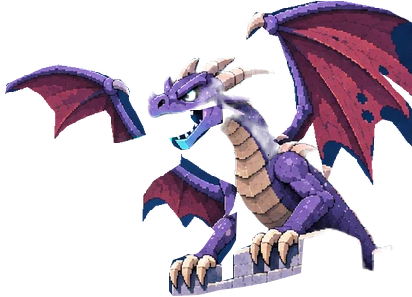
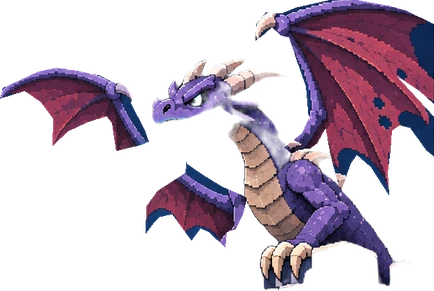
Restore the pre-session Showdown build

diff --git a/src/ui/showdown-3d/story-actors.js b/src/ui/showdown-3d/story-actors.js
@@ -1,6 +1,5 @@
 import * as T from "three";
 import { typeOf } from "../../game/showdown/cards.js";
-import { PAINTED_SPRITE_ALPHA } from "./graphics/pixel-renderer.js";
 
 const source = typeof __CVW_DUEL_POSES__ === "undefined" ? "" : __CVW_DUEL_POSES__;
 const billy = typeof __CVW_BILLY_POSES__ === "undefined" ? "" : __CVW_BILLY_POSES__;
@@ -12,10 +11,10 @@ const illustrated = {
   "cowboy-outrider": { height: 2.39, width: 3.44, hips: 0.49, muzzle: [0.78, 0.62] },
   "cowboy-ranger": { height: 2.55, muzzle: [0.91, 0.76] },
   "cowboy-dynamiter": { height: 2.38, muzzle: [0.86, 0.88] },
-  "cowboy-gatling-crew": { height: 2.69, width: 3.10, hips: 0.41, muzzle: [0.95, 0.52], exactPaint: true },
+  "cowboy-gatling-crew": { height: 2.19, width: 3.25, hips: 0.41, muzzle: [0.94, 0.56] },
   "cowboy-captured-wraith": { height: 2.66, hips: 0.53 },
   "cowboy-captured-dragon": { height: 2.93, width: 3.53, hips: 0.39, mouth: [0.91, 0.74] },
-  "wizard-dragon": { height: 2.84, width: 3.76, hips: 0.42, mouth: [0.456, 0.60], exactPaint: true },
+  "wizard-dragon": { height: 2.98, width: 3.60, hips: 0.42, mouth: [0.38, 0.57] },
   "wizard-wizard": { height: 2.79, "staff-tip": [0.12, 0.93] },
   "wizard-lantern-wraith": { height: 2.60, width: 2.83, hips: 0.53 },
   "wizard-raven-familiar": { height: 1.58, width: 2.23, hips: 0.46 },
@@ -68,7 +67,7 @@ function readPose(image, col, row, split, rows, mirror) {
   map.minFilter = T.NearestFilter;
   map.magFilter = T.NearestFilter;
   map.generateMipmaps = false;
-  return { map, aspect: imagePose.width / imagePose.height, height: imagePose.height };
+  return { map, aspect: imagePose.width / imagePose.height };
 }
 
 export function loadStoryActors() {
@@ -100,9 +99,8 @@ export function loadStoryActors() {
     }
     const map = new T.Texture(image);
     map.colorSpace = T.SRGBColorSpace;
-    map.minFilter = T.NearestFilter;
+    map.minFilter = T.LinearMipmapLinearFilter;
     map.magFilter = T.NearestFilter;
-    map.generateMipmaps = false;
     map.needsUpdate = true;
     const pose = { map, aspect: image.naturalWidth / image.naturalHeight };
     frames.set(id, { idle: pose, strike: pose });
@@ -123,27 +121,9 @@ export function storyActor(cardId, holder, model, camera) {
   if (!height || (!art && !(type === "cowboy-billy" ? billy : source))) return null;
   const hips = art?.hips ?? 0.49;
   const bend = { value: 0 };
-  const sheriff = type === "cowboy-sheriff";
-  const painted = { value: Boolean(art) || sheriff };
-  const shadow = { value: art && !art.exactPaint ? 0.30 : 0 };
   const material = new T.SpriteMaterial({ alphaTest: art ? 0.38 : 0.52, transparent: false, toneMapped: false });
   material.onBeforeCompile = (shader) => {
     shader.uniforms.hipBend = bend;
-    shader.uniforms.actorPainted = painted;
-    shader.uniforms.actorShadow = shadow;
-    // The illustrated cutouts arrive with brighter midtones than the painted pose sheets.
-    shader.fragmentShader = "uniform bool actorPainted;\nuniform float actorShadow;\n" + shader.fragmentShader
-      .replace(
-        "#include <map_fragment>",
-        `#include <map_fragment>
-        float luma = dot(diffuseColor.rgb, vec3(0.2126, 0.7152, 0.0722));
-        diffuseColor.rgb *= mix(1.0 - actorShadow, 1.0, smoothstep(0.025, 0.48, luma));`,
-      )
-      .replace(
-        "#include <opaque_fragment>",
-        `#include <opaque_fragment>
-        if (actorPainted) gl_FragColor.a = ${PAINTED_SPRITE_ALPHA};`,
-      );
     shader.vertexShader = "uniform float hipBend;\n" + shader.vertexShader.replace(
       "vec2 rotatedPosition;",
       "alignedPosition.x -= hipBend * abs(position.y + 0.5 - center.y); vec2 rotatedPosition;",
@@ -157,8 +137,7 @@ export function storyActor(cardId, holder, model, camera) {
   const world = new T.Vector3(), right = new T.Vector3(), up = new T.Vector3();
   let position = "idle", fallingApart = false, float = 0;
   function sync() {
-    const poses = frames.get(type);
-    const pose = poses?.[position];
+    const pose = frames.get(type)?.[position];
     if (!pose) return;
     sprite.visible = !fallingApart;
     model.visible = false;
@@ -166,8 +145,7 @@ export function storyActor(cardId, holder, model, camera) {
       if (!material.map) material.needsUpdate = true;
       material.map = pose.map;
     }
-    const poseHeight = sheriff ? height * pose.height / poses.idle.height : height;
-    const h = Math.min(poseHeight, (art?.width ?? Infinity) / pose.aspect);
+    const h = Math.min(height, (art?.width ?? Infinity) / pose.aspect);
     sprite.scale.set(pose.aspect * h, h, 1);
     sprite.center.x = position === "strike" && type === "wizard-skeleton" ? 0.61 : 0.5;
     sprite.center.y = float > 0 ? hips : 0.005;

diff --git a/src/ui/showdown-3d/scene.js b/src/ui/showdown-3d/scene.js
@@ -172,11 +172,10 @@ function build(host, canvas, screen, closeup = false) {
   const scene = new T.Scene();
   if (!HAS_PANORAMA) scene.background = new T.Color(0x17243a);
   const camera = new T.OrthographicCamera(-20, 20, 10, -10, 0.1, 120);
-  const dusk = { ambient: 1.34, sun: 1.96, moon: 0.96 };
-  const hemi = new T.HemisphereLight(0xd9d5ed, 0x6a577a, dusk.ambient);
-  const sun = new T.DirectionalLight(0xffc294, dusk.sun);
+  const hemi = new T.HemisphereLight(0xffefd6, 0x796b8e, 2.28);
+  const sun = new T.DirectionalLight(0xffd2a4, 2.34);
   sun.position.set(-19, 20, 13);
-  const moon = new T.DirectionalLight(0x8c9ff3, dusk.moon);
+  const moon = new T.DirectionalLight(0x9397de, 0.83);
   moon.position.set(24, 17, -14);
   sun.castShadow = true;
   sun.shadow.mapSize.set(1024, 1024);
@@ -419,9 +418,9 @@ function build(host, canvas, screen, closeup = false) {
   }
 
   function spellDarkness(alpha) {
-    hemi.intensity = dusk.ambient * (1 - alpha * 0.80);
-    sun.intensity = dusk.sun * (1 - alpha * 0.89);
-    moon.intensity = dusk.moon + alpha * 0.2;
+    hemi.intensity = 2.28 * (1 - alpha * 0.80);
+    sun.intensity = 2.34 * (1 - alpha * 0.89);
+    moon.intensity = 0.83 + alpha * 0.2;
     host.style.setProperty("--spell-darkness", alpha.toFixed(3));
   }
   function stop() {

diff --git a/src/ui/showdown-3d/graphics/pixel-renderer.js b/src/ui/showdown-3d/graphics/pixel-renderer.js
@@ -1,8 +1,6 @@
 import * as THREE from "three";
 import { PALETTE, PALETTE_LAB } from "./palette.js";
 
-// Opaque, already-painted sprites reserve this intermediate alpha value to keep their palette.
-export const PAINTED_SPRITE_ALPHA = 0.125;
 const vertexShader = `varying vec2 vUv;
 void main(){vUv=uv;gl_Position=vec4(position.xy,0.0,1.0);}`;
 const fragmentShader = `
@@ -39,10 +37,6 @@ void main(){
   vec2 uv=(cell+0.5)/resolution;
   vec4 paint=texture2D(colourTexture,uv);
   if(paint.a<.003){gl_FragColor=vec4(0.0);return;}
-  if(abs(paint.a-${PAINTED_SPRITE_ALPHA})<.003){
-    gl_FragColor=vec4(encode(clamp(paint.rgb,0.0,1.0)),1.0);
-    return;
-  }
   vec3 rgb=encode(filmic(paint.rgb*exposure));
   if(!pixelMode){gl_FragColor=vec4(rgb,paint.a);return;}
   vec3 lab=toLab(rgb);

diff --git a/src/ui/showdown-3d/README.md b/src/ui/showdown-3d/README.md
@@ -17,6 +17,7 @@ The embedded sunset-and-moonrise panorama frames the 3D table. Cropped
 poses for the Sheriff, Billy and Skeleton are anchored to their board
 tiles, and their strikes use the same contact events as the 3D models.
 The opening hand, Gatling Crew and Dragon use matching card paintings.
+The rest of the roster uses the existing miniatures in the attack reel.
 
 The Cowboy and Wizard districts frame three troop spaces, two face-down trap
 spaces, a Base, a deck and a graveyard per side, and one shared Location. The
@@ -78,10 +79,6 @@ The paintings in `assets/cards/illustrated/` are crops of the approved
 ChatGPT-generated sheets. The transparent actors in `assets/scenes/actors/`
 use those same paintings. Sheriff, Skeleton and Billy use their existing
 illustrated idle and strike frames. All actors are cutouts on the 3D board.
-
-The Gatling Crew and Graveyard Dragon use the original colors from the
-opening portraits. Their cutouts keep both gunners, the brass gun carriage,
-and the dragon's open jaw, claws and capstones.
 
 Singularity pulls regular troops by the hips, with a visible lift before
 the inward slide. Dragons brace and move a shorter distance. The combat
